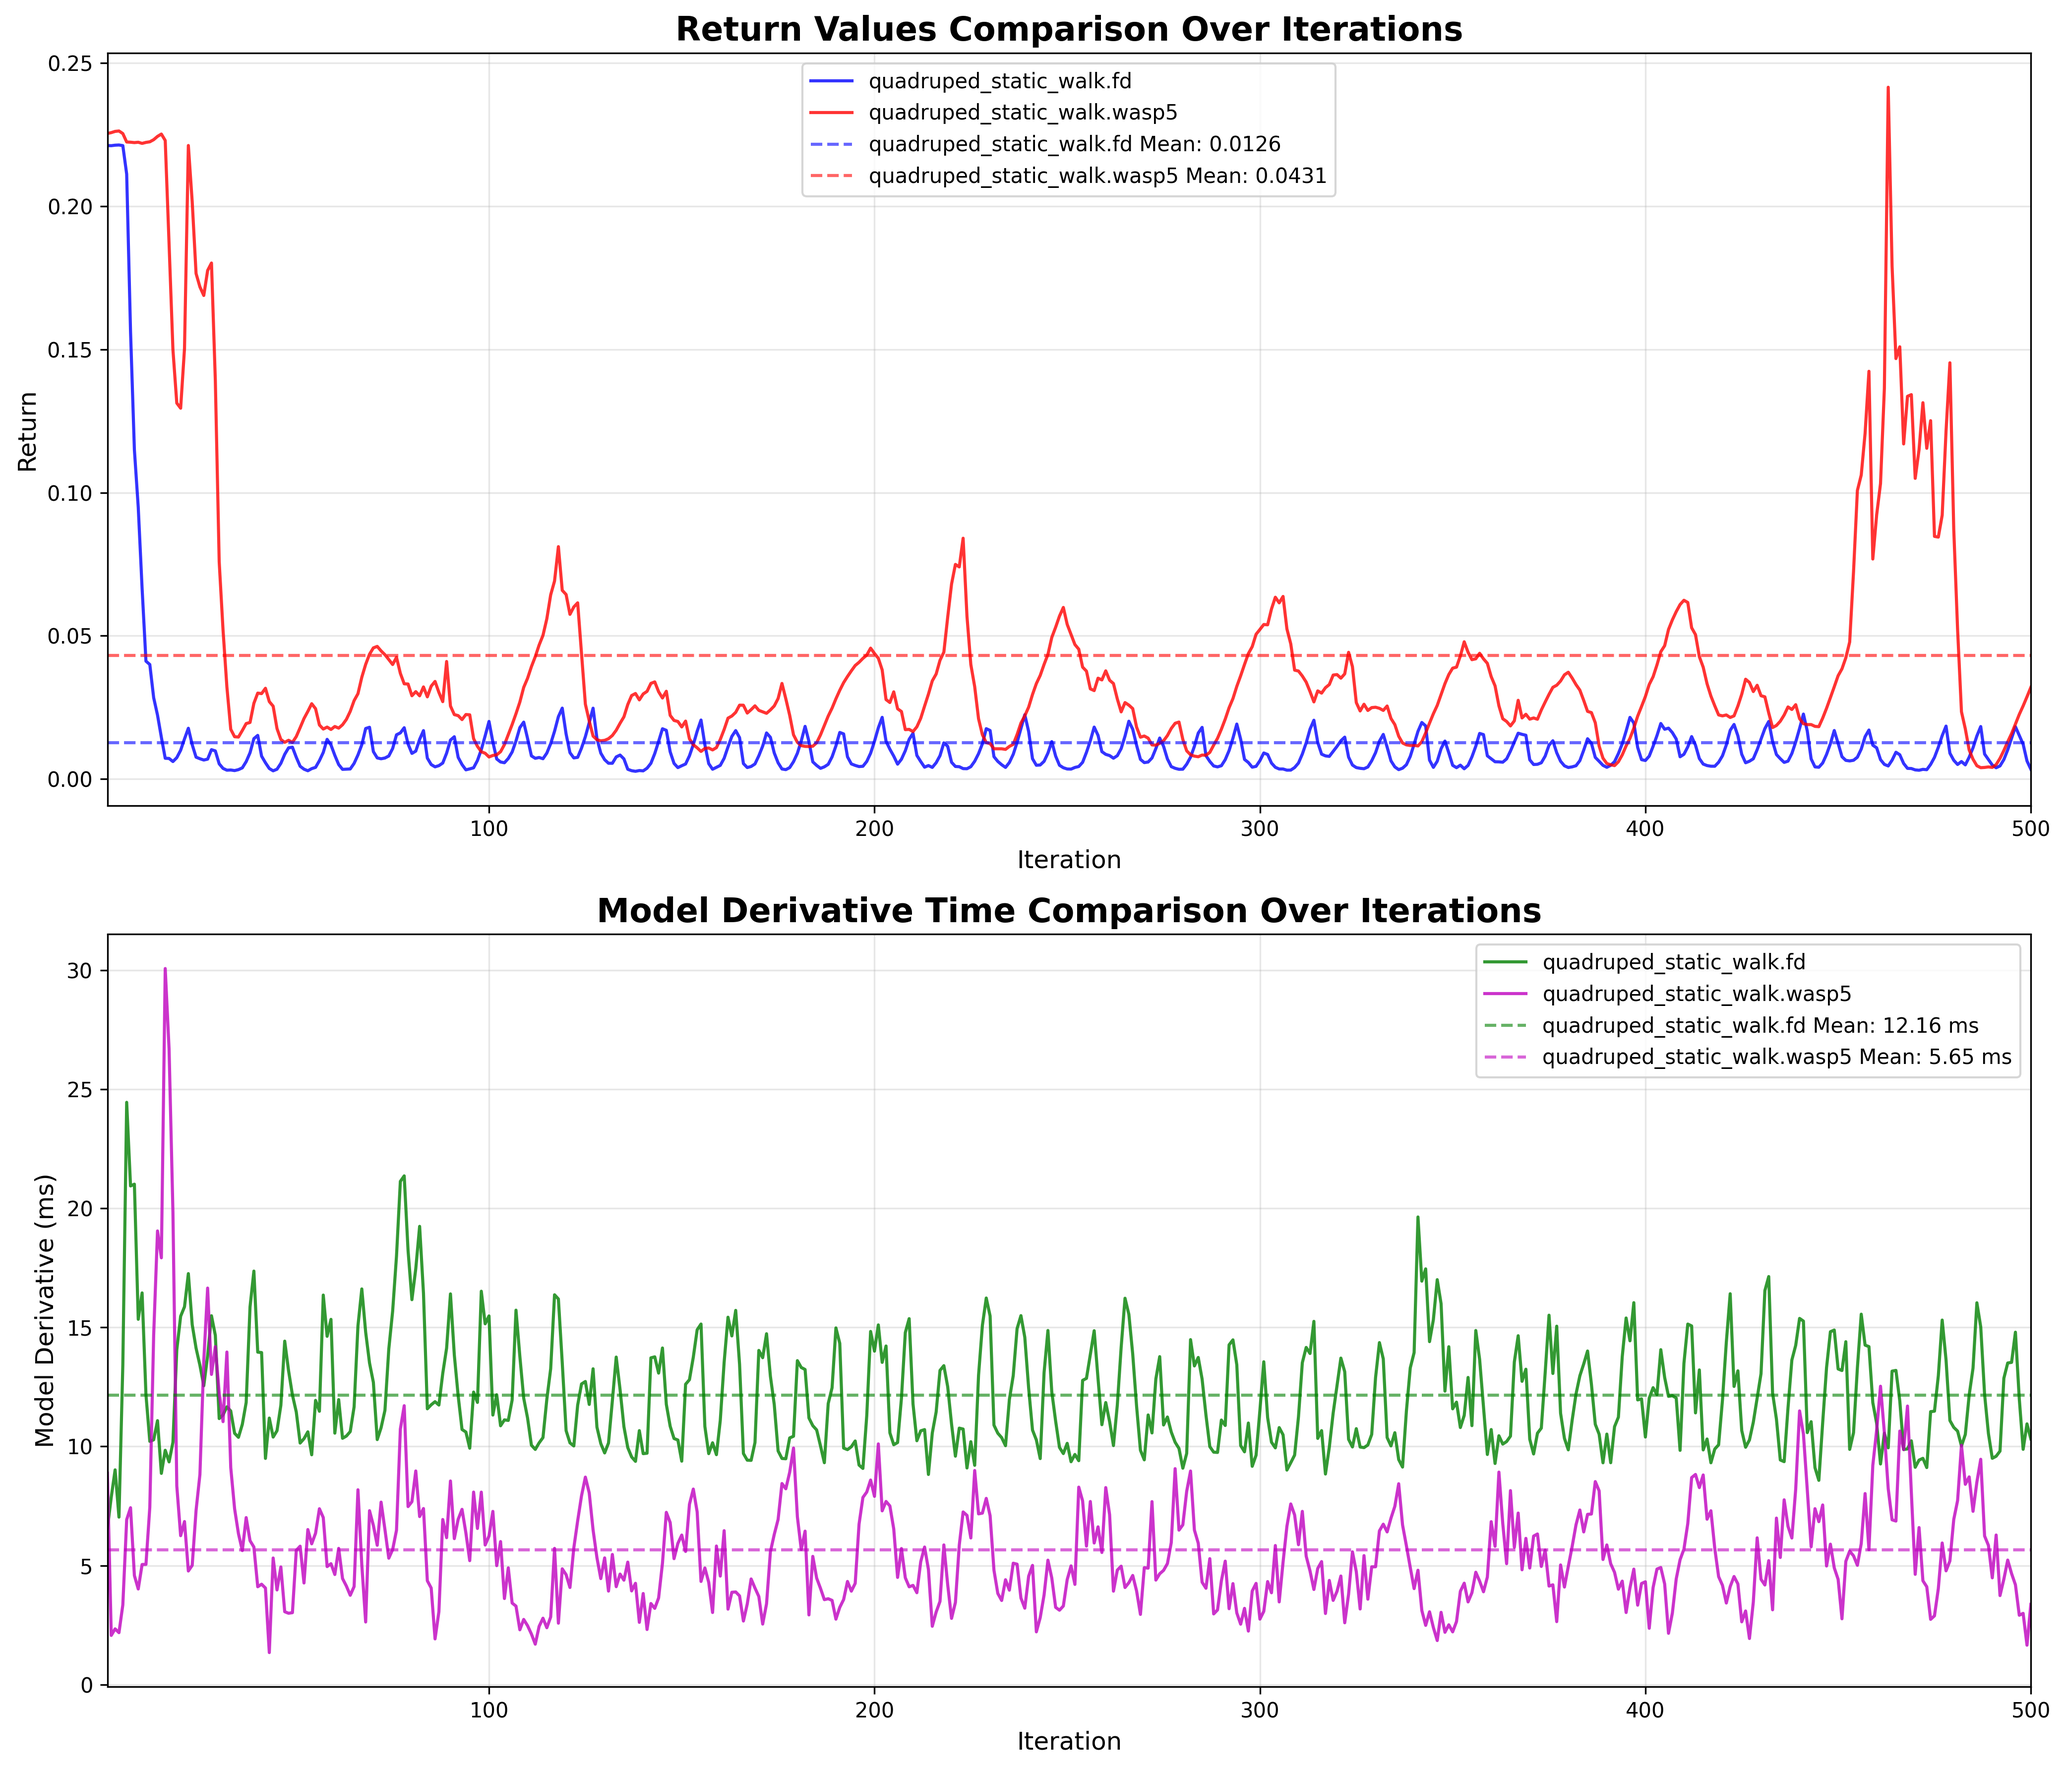
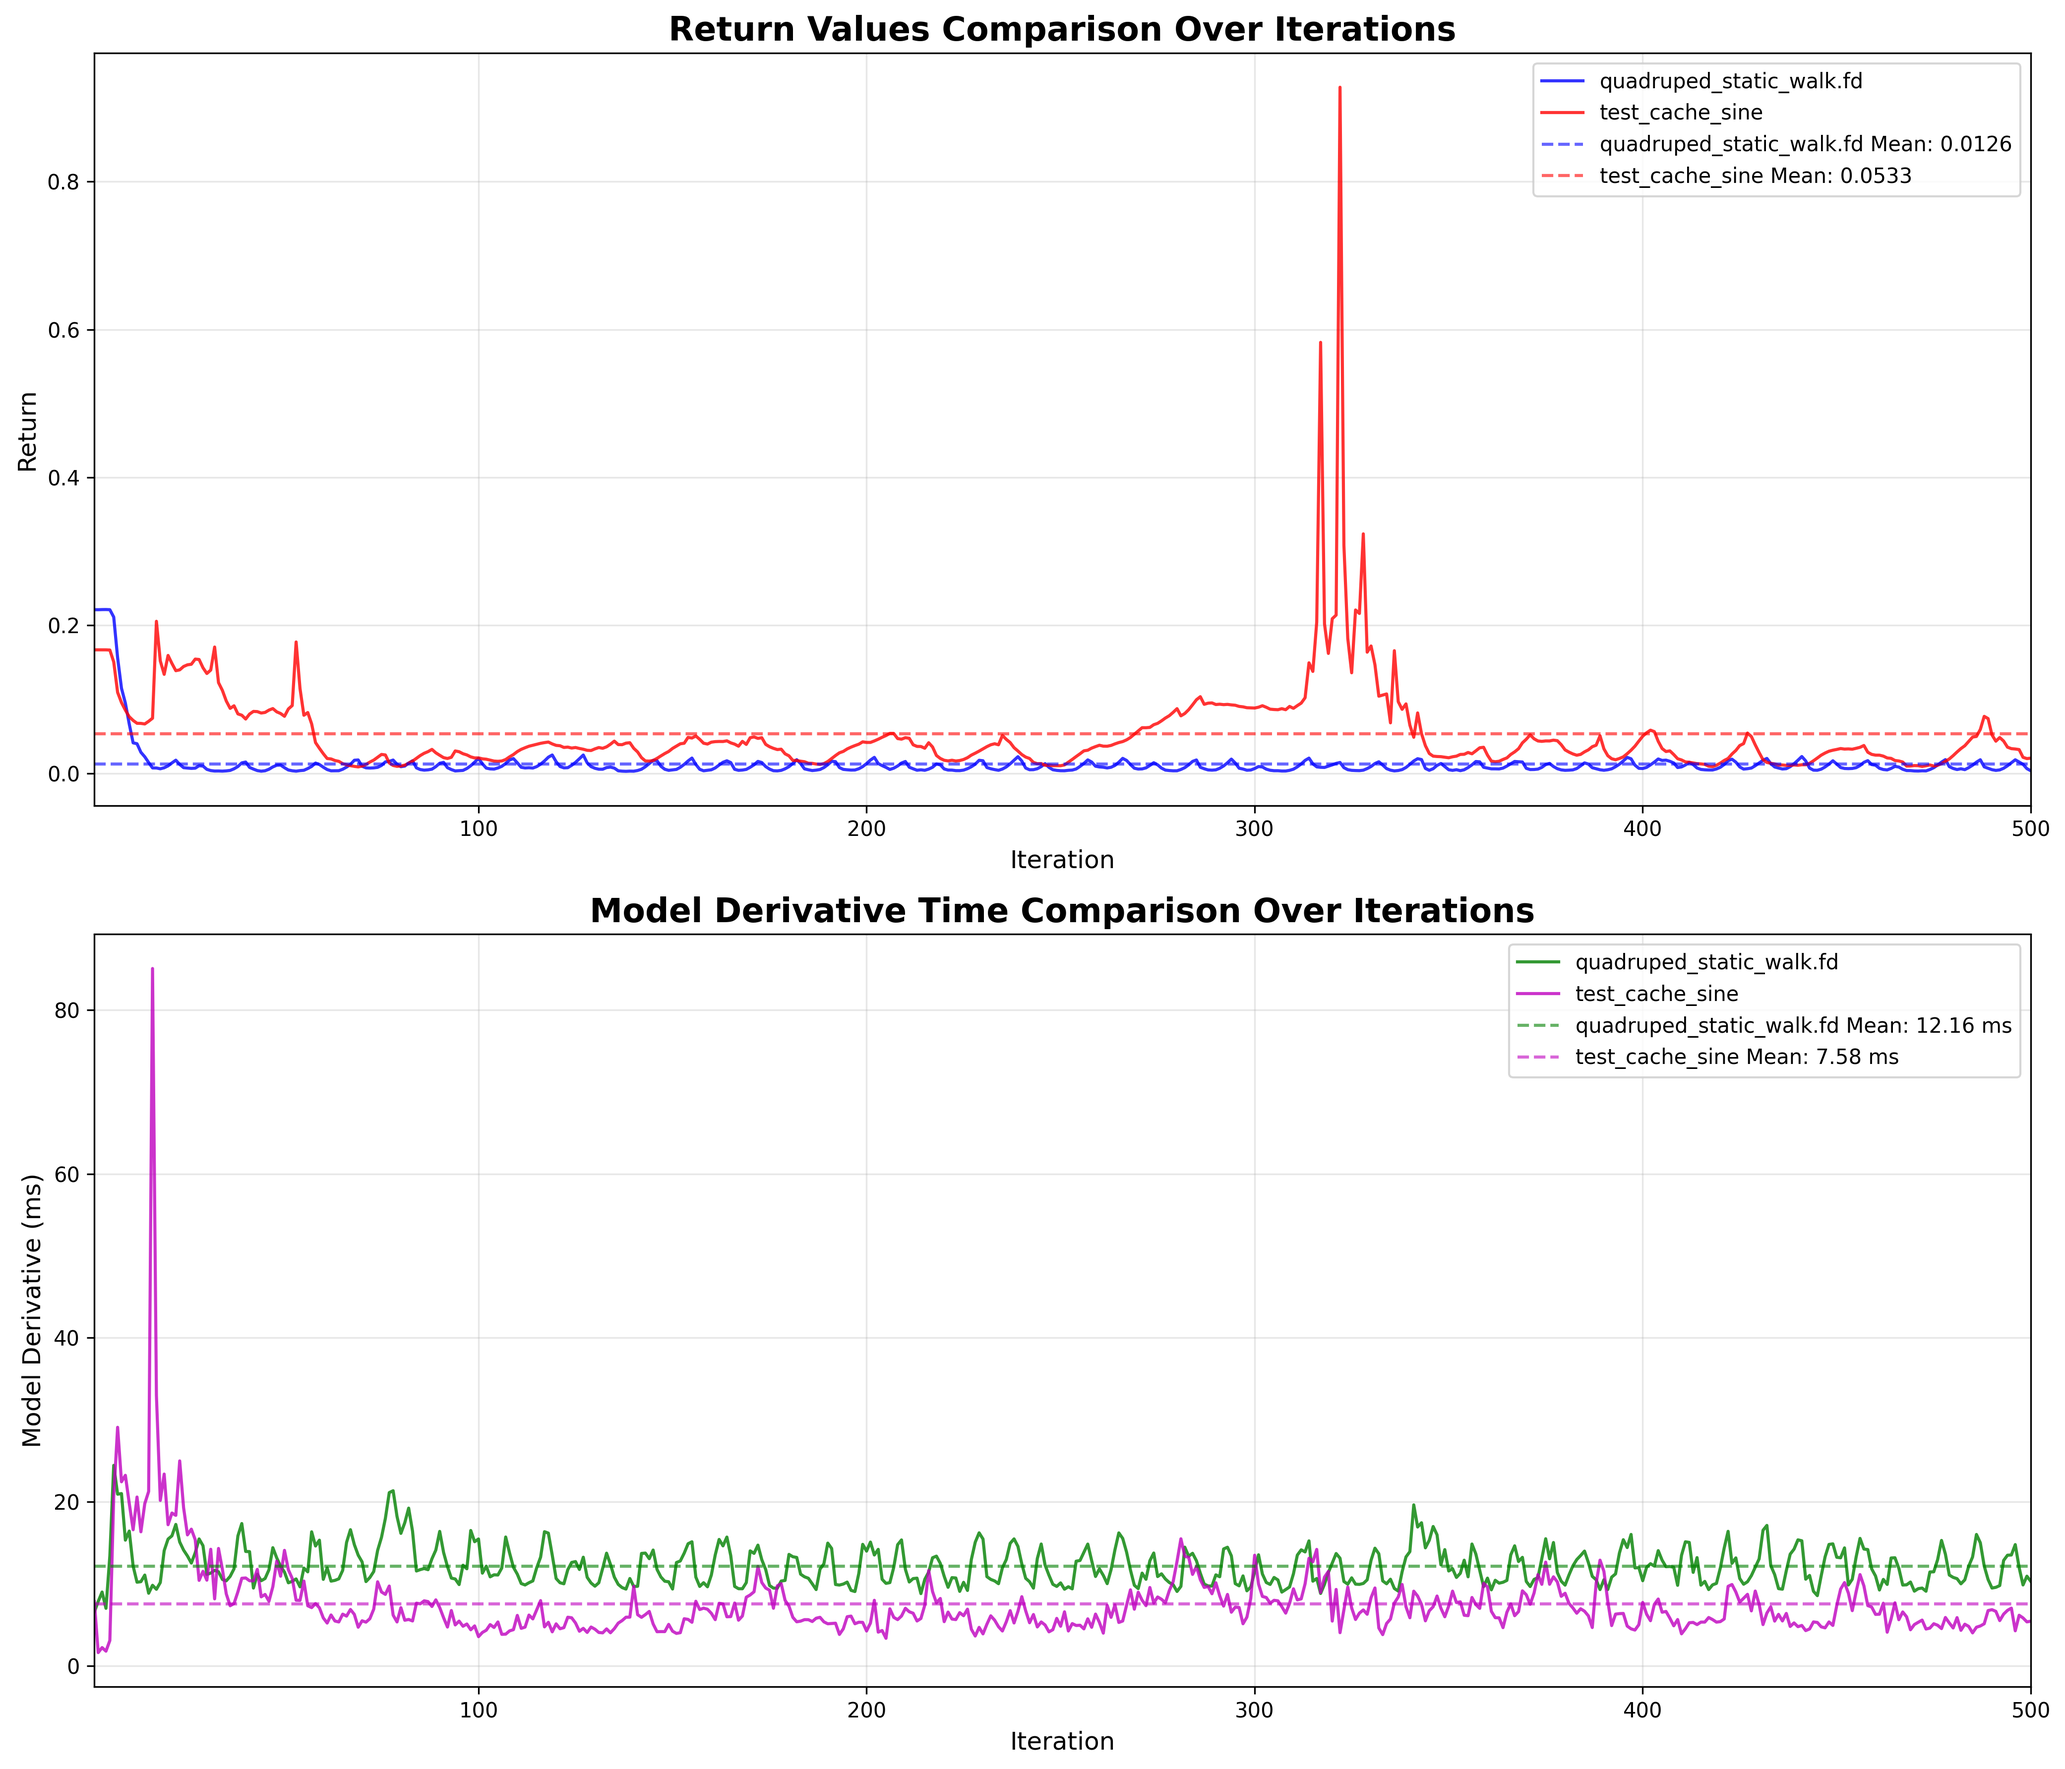
used sine wave heuristics

diff --git a/mjpc/planners/model_derivatives_wasp.cc b/mjpc/planners/model_derivatives_wasp.cc
@@ -153,29 +153,9 @@ AT.begin() + T * dim_state_derivative * dim_state_derivative, 0.0);
     }
 
     void ModelDerivativesWASP::HeuristicUpdate(double time) {
-        // update error thresholds
-        /*
-        double delta = cost - exp_avg_cost;
-        if (heuristic_mode){
-            double std = exp_var_cost > 0 ? sqrt(exp_var_cost):1e-6;
-            double z_score = delta/std;
-            if (z_score > z_threshold) {
-                x_eps = 1e-4;
-                u_eps = 1e-4;
-            }
-            else if (delta<0.0&& cost >0.0){
-                x_eps *= gamma_eps;
-                u_eps *= gamma_eps;
-                x_eps = std::min(max_x_eps,x_eps);
-                u_eps = std::min(max_u_eps, u_eps);
-            }
-        }
-        exp_avg_cost =  (1-avg_weight) * cost + avg_weight * exp_avg_cost;
-        exp_var_cost =  (1-avg_weight) * delta * delta + avg_weight*exp_var_cost;*/
         if (heuristic_mode) {
-            double T = 0.5;
-            x_eps = 0.5*sin(2*M_PI*time/T)+0.5;
-            u_eps = 0.5*cos(2*M_PI*time/T)+0.5;
+            x_eps = 0.5*max_x_eps*sin(2*M_PI*time/T_eps)+0.5*max_x_eps;
+            u_eps = 0.5*max_u_eps*cos(2*M_PI*time/T_eps)+0.5*max_u_eps;
         }
     }
 
@@ -235,7 +215,7 @@ AT.begin() + T * dim_state_derivative * dim_state_derivative, 0.0);
                             m, this->qv_basis, this->qv_basis, this->a_basis,nullptr,
                             d, tol, mode,
                             this->x_eps, this->x_eps, this->q_max_wasp_iters,
-                            this->u_eps, this->u_eps, this->v_max_wasp_iters,
+                            this->x_eps, this->x_eps, this->v_max_wasp_iters,
                             this->x_eps, this->x_eps, this->a_max_wasp_iters,
                             this->u_eps, this->u_eps, this->u_max_wasp_iters,
                             /*A*/ nullptr,
@@ -249,7 +229,7 @@ AT.begin() + T * dim_state_derivative * dim_state_derivative, 0.0);
                             m, this->qv_basis, this->qv_basis, this->a_basis,this->u_basis,
                             d, tol, mode,
                             this->x_eps, this->x_eps, this->q_max_wasp_iters,
-                            this->u_eps, this->u_eps, this->v_max_wasp_iters,
+                            this->x_eps, this->x_eps, this->v_max_wasp_iters,
                             this->x_eps, this->x_eps, this->a_max_wasp_iters,
                             this->u_eps, this->u_eps, this->u_max_wasp_iters,
                             /*A*/ DataAt(this->A, t * (dim_state_derivative * dim_state_derivative)),

diff --git a/python/mujoco_wasp_mpc/compare_fd_wasp.py b/python/mujoco_wasp_mpc/compare_fd_wasp.py
@@ -121,7 +121,8 @@ def create_comparison_plots(file1_data, file2_data, file1_name, file2_name, save
 
     # Save plots if requested
     if save_plots:
-        plt.savefig('comparison_plots5.png', dpi=300, bbox_inches='tight')
+        plt.savefig('comparison_plots6'
+                    '.png', dpi=300, bbox_inches='tight')
         print("Comparison plots saved as 'comparison_plots.png'")
 
     # Show the plots
@@ -196,7 +197,7 @@ def main():
     """
     # Specify the paths to your data files
     file1_path = 'quadruped_static_walk.fd.out'  # Change this to your first file path
-    file2_path = 'quadruped_static_walk.wasp5.out'  # Change this to your second file path
+    file2_path = 'test.xml.out'  # Change this to your second file path
 
     # Get display names for the files
     file1_name = get_file_display_name(file1_path)

diff --git a/mjpc/planners/ilqg/planner.cc b/mjpc/planners/ilqg/planner.cc
@@ -302,9 +302,7 @@ namespace mjpc {
             {mjITEM_SLIDERNUM, "WASP u_eps", 2, &(wasp_md.u_eps), "0 1"},
 {mjITEM_SLIDERNUM, "WASP max_x_eps", 2, &(wasp_md.max_x_eps), "0 1"},
 {mjITEM_SLIDERNUM, "WASP max_u_eps", 2, &(wasp_md.max_u_eps), "0 1"},
-{mjITEM_SLIDERNUM, "WASP gamma_eps", 2, &(wasp_md.gamma_eps), "1.01 5"},
-{mjITEM_SLIDERNUM, "WASP avg_weight", 2, &(wasp_md.avg_weight), "0 1"},
-{mjITEM_SLIDERNUM, "WASP z_thresh", 2, &(wasp_md.z_threshold), "1 3"},
+{mjITEM_SLIDERNUM, "WASP T_eps", 2, &(wasp_md.T_eps), "0 1"},
 {mjITEM_SELECT, "rollout wasp", 2, &(wasp_md.cache_rollout), "0\n1\n"},
 {mjITEM_SELECT, "heuristic wasp", 2, &(wasp_md.heuristic_mode), "0\n1\n"},
             {mjITEM_END}

diff --git a/mjpc/planners/model_derivatives_wasp.h b/mjpc/planners/model_derivatives_wasp.h
@@ -116,13 +116,9 @@ namespace mjpc {
         friend class iLQGPlanner;
         double x_eps=1e-4;
         double u_eps=1e-4;
-        double max_x_eps = 0.1;
-        double max_u_eps = 0.1;
-        double gamma_eps =1.5;
-        double avg_weight = 0.1;
-        double z_threshold = 2.0;
-        double exp_avg_cost=0.0;
-        double exp_var_cost=0.0;;
+        double max_x_eps = 1.0;
+        double max_u_eps = 1.0;
+        double T_eps=0.5;
         int q_max_wasp_iters=1;
         int v_max_wasp_iters=1;
         int a_max_wasp_iters=1;
